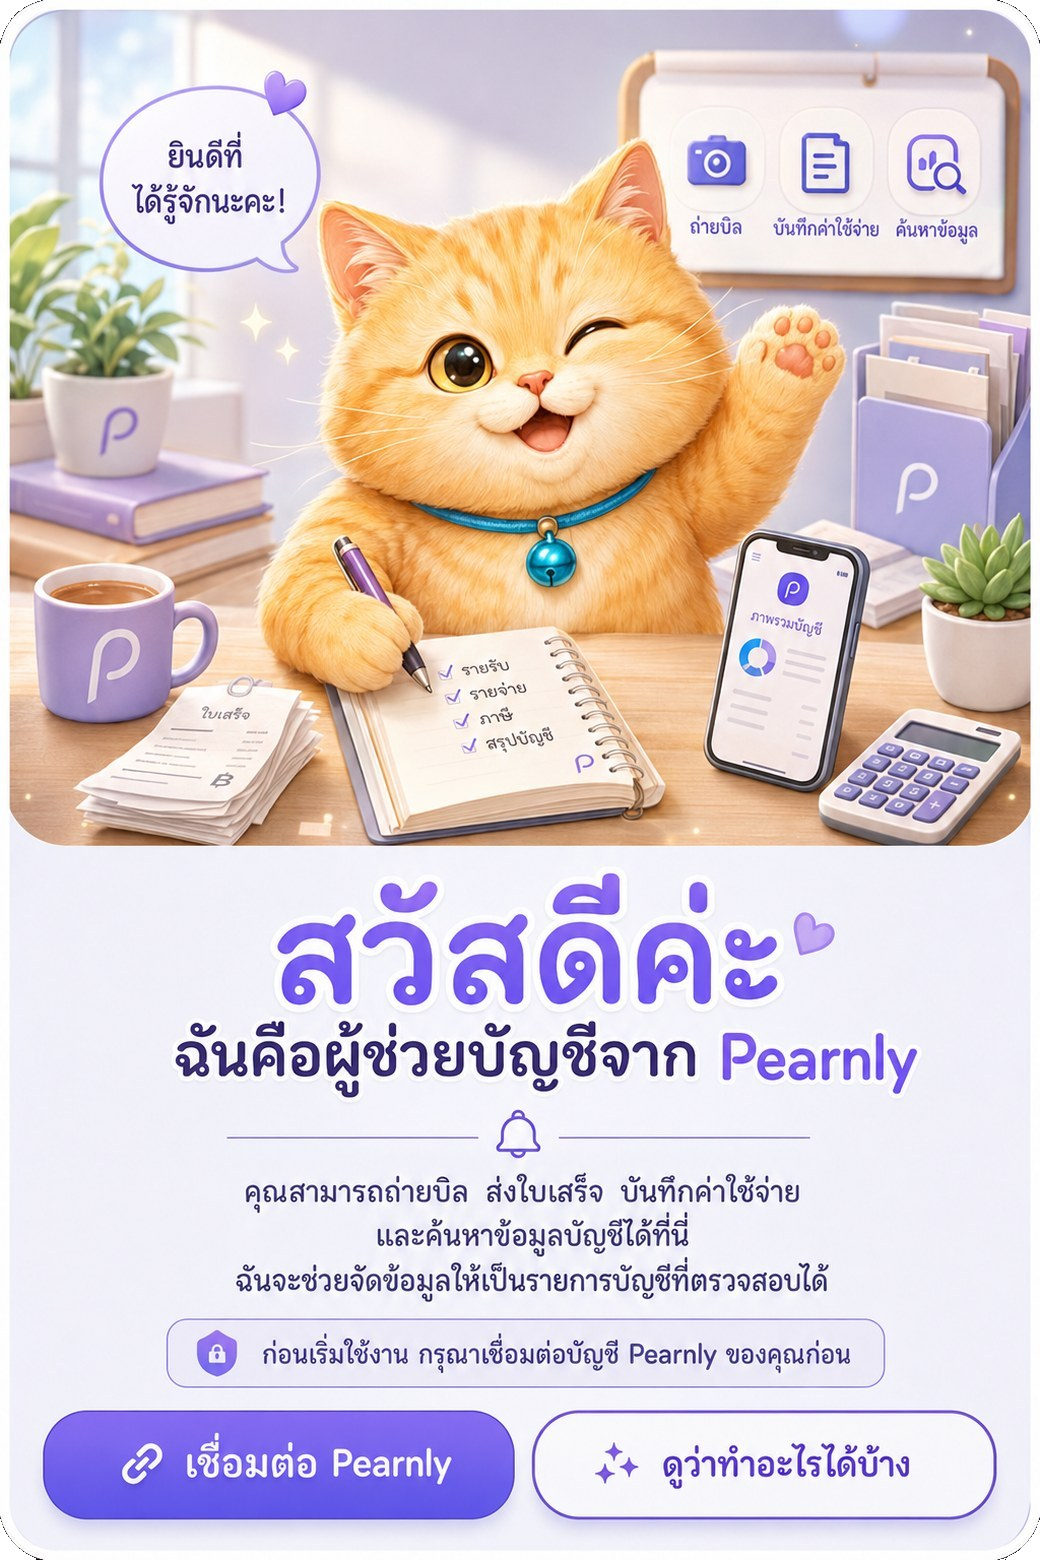
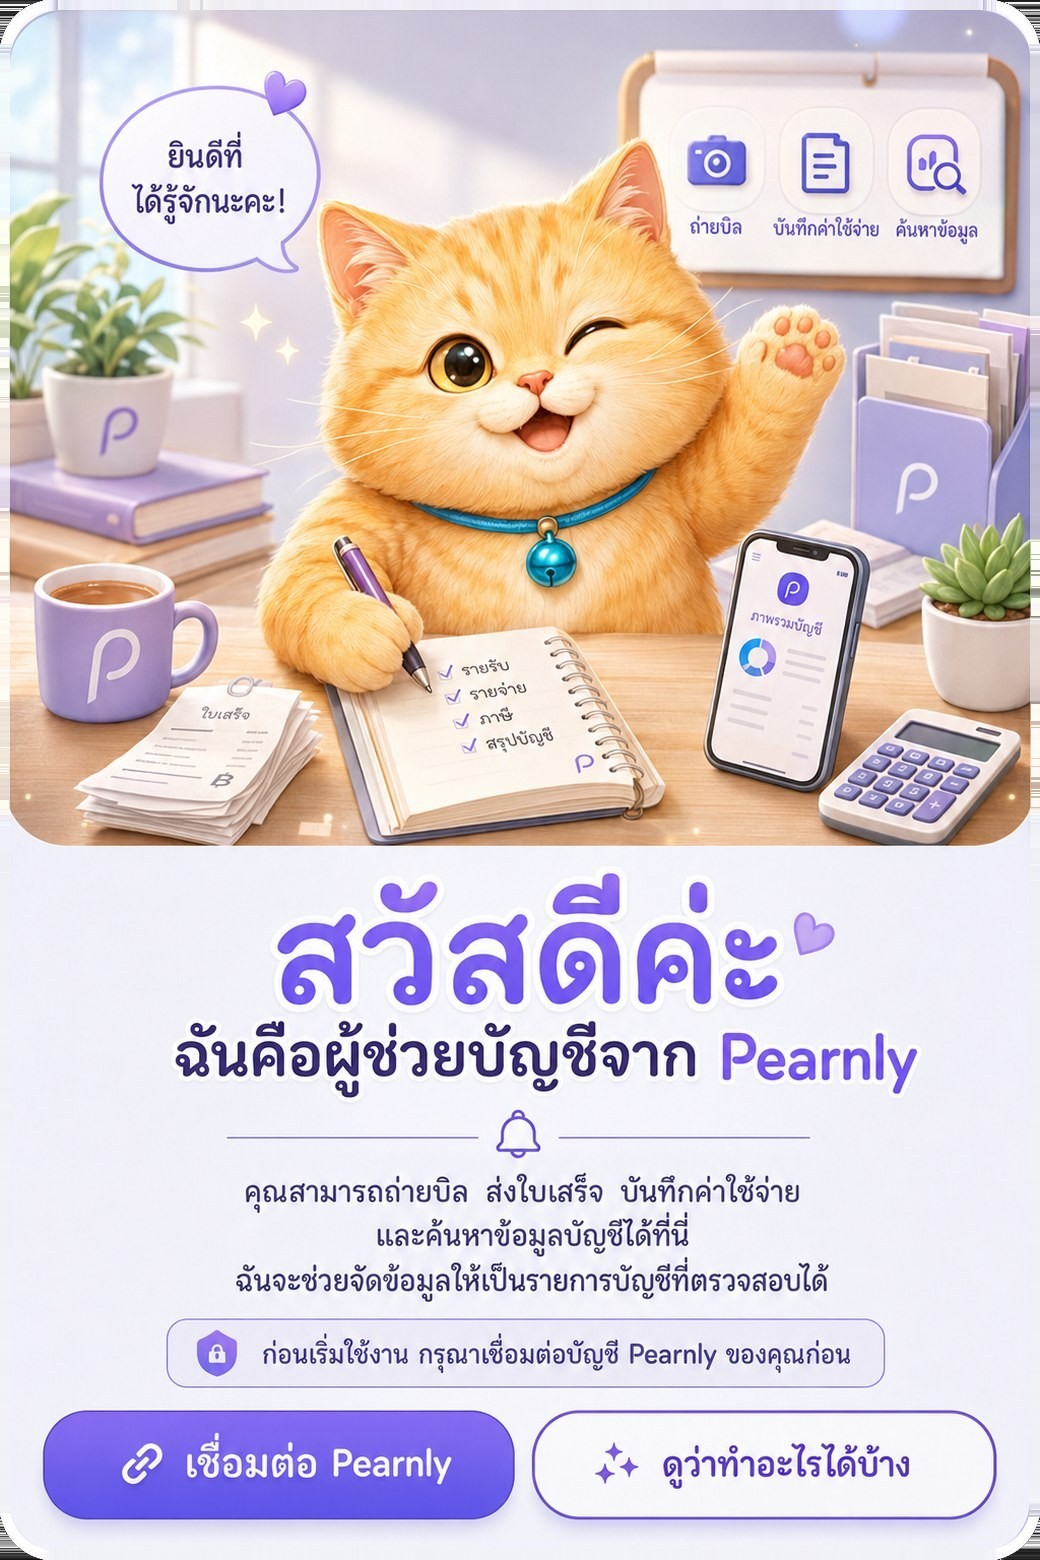
assets(line): 裁欢迎卡 A1-welcome 四角白边——边缘背景色向外填充(尺寸不变·保按钮点击区对齐)
A1-welcome 是竖版 imagemap(1040×1560)+ 底部两按钮点击区(y1390 写死)·裁剪会错位点击区,
故改用边缘复制填充白边(四角最厚 ~40px)·尺寸/坐标一像素不动·视觉=白边消失。
_CARD_VER 3→4 破 LINE 图片缓存(保新图必现)。

diff --git a/services/line_binding/line_imagemap.py b/services/line_binding/line_imagemap.py
@@ -16,7 +16,7 @@ from services.line_binding.line_bind_i18n import CONNECT_URL
 
 # 图片服务基址(LINE 会追加 /{size};见 line_card_image_routes)。
 # _CARD_VER:改图后 bump 一位,破 LINE/客户端按 URL 的图片缓存(URL 变 = 强制重取)。
-_CARD_VER = "3"
+_CARD_VER = "4"
 _IMG_BASE = f"https://pearnly.com/api/line/card/{_CARD_VER}"
 
 _URI = "uri"